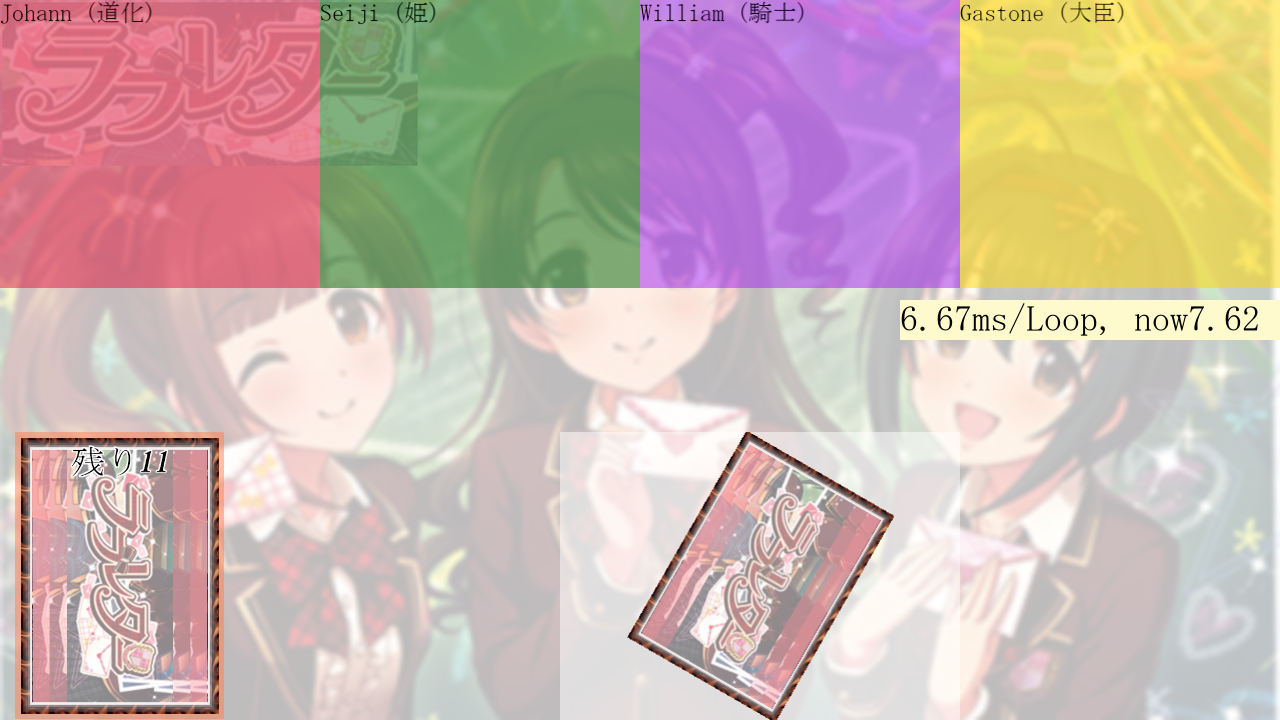
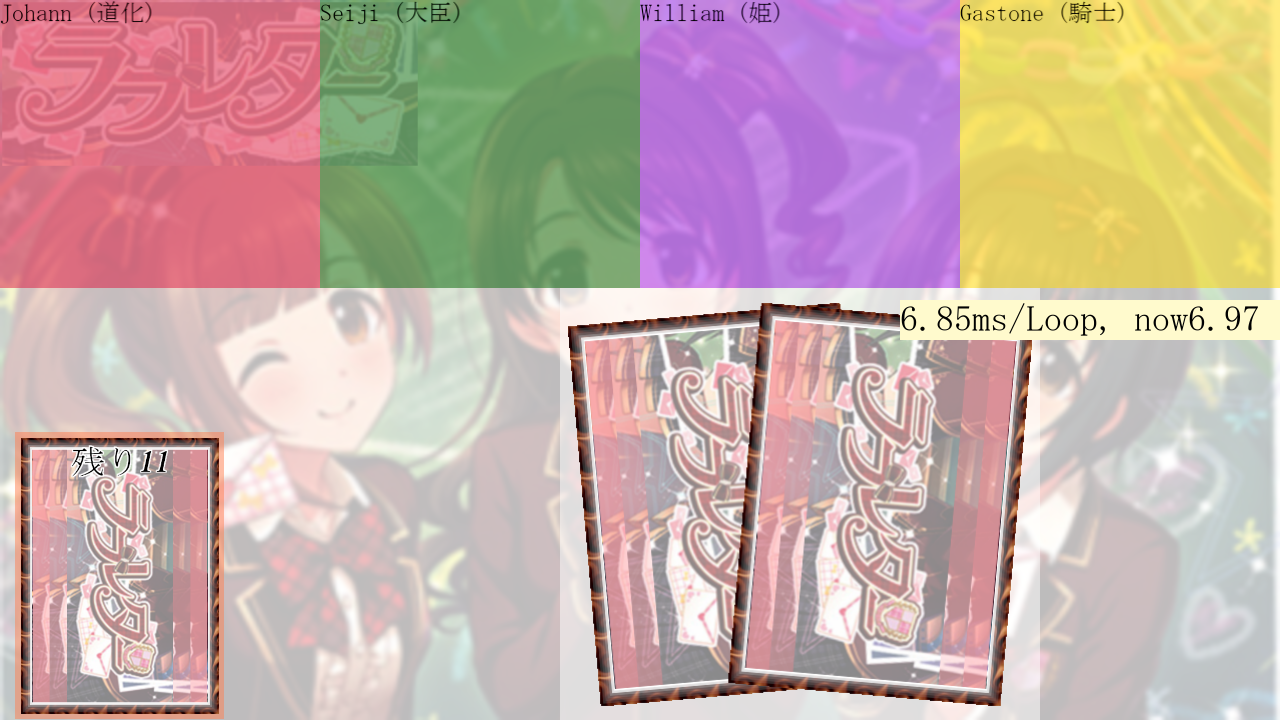
L082:HandSquareを事前描画方式に

diff --git a/ll/view/hand_square.py b/ll/view/hand_square.py
@@ -11,7 +11,7 @@ from ptc.element import Element
 
 from ptc.square import Square
 class HandSquare():
-    _RATIO = (400, 288)
+    _RATIO = (480, 432)
     _LOG_RATIO = (136, 190)
 
     def __init__(self, player_kard: Kard, draw_kard: Kard, rect: Rect, bridge: Bridge) -> None:
@@ -25,23 +25,19 @@ class HandSquare():
         return None
 
     def draw(self) -> None:
-        # rect_fill(color=translucented_color("white"), rect=self.rect)
-        # screen.fill(color=translucented_color("white"), rect=self.rect)
-        # if self.player != self._now_player:
-        #     self.player = self._now_player
-        #     self.img = self._img()
         screen.blit(source=self.img, dest=self.rect)
-        # for log_square in self.log_squares:
-        #     log_square.draw()
 
     def _img(self) -> Surface:
         img = Surface(size=self._RATIO, flags=SRCALPHA)
         rect_fill(color=translucented_color("white"), rect=Rect((0, 0), self._RATIO), surface=img)
-        img_left = transform.rotozoom(surface=IMG_BACK, angle=-30.0, scale=0.5)
-        img_right = transform.rotozoom(surface=IMG_BACK, angle=30.0, scale=1.0)
+        img_left = transform.rotozoom(surface=IMG_BACK, angle=5.0, scale=0.8)
+        img_right = transform.rotozoom(surface=IMG_BACK, angle=-5.0, scale=0.8)
         img.blit(
             source=img_left,
-            dest=V2(self._RATIO)/2-V2(img_left.get_size())/2
+            dest=V2(self._RATIO)/2-V2(img_left.get_size())/2-(80, 0)
         )
-        # img.blit(source=MS_MINCHO_COL(f"{self.player.name} ({self.player.hand.name})", 24, "black"), dest=(0, 0))
+        img.blit(
+            source=img_right,
+            dest=V2(self._RATIO)/2-V2(img_left.get_size())/2+(80, 0)
+        )
         return transform.rotozoom(surface=img, angle=0.0, scale=self.rect.w/self._RATIO[0])

diff --git a/ll/view/board_view.py b/ll/view/board_view.py
@@ -15,7 +15,7 @@ from ptc.bridge import Bridge
 _W = WX / 4
 _H = WY * 2 / 5
 _D = WX * 3 / 16
-_C = WX * 5 /16
+_C = WX * 6 /16
 
 class BoardView:
     def __init__(self, subject: Player, bridge: Bridge) -> None:
@@ -24,7 +24,7 @@ class BoardView:
         self.deck_square = self._deck_square()
         self.subject_square = self._subject_square()
         self.opponents_squares = self._opponents_squares(opponents=self.board.players)
-        self.hand_square = HandSquare(EMPTY_KARD, EMPTY_KARD, Rect(_D+_W, WY-_H, _C, _H), self.bridge)
+        self.hand_square = HandSquare(EMPTY_KARD, EMPTY_KARD, Rect(_D+_W, _H, _C, WY-_H), self.bridge)
         self.squares: list[Square] = [
             square for square in (self.deck_square, self.subject_square, *self.opponents_squares, self.hand_square)
             if square is not None
